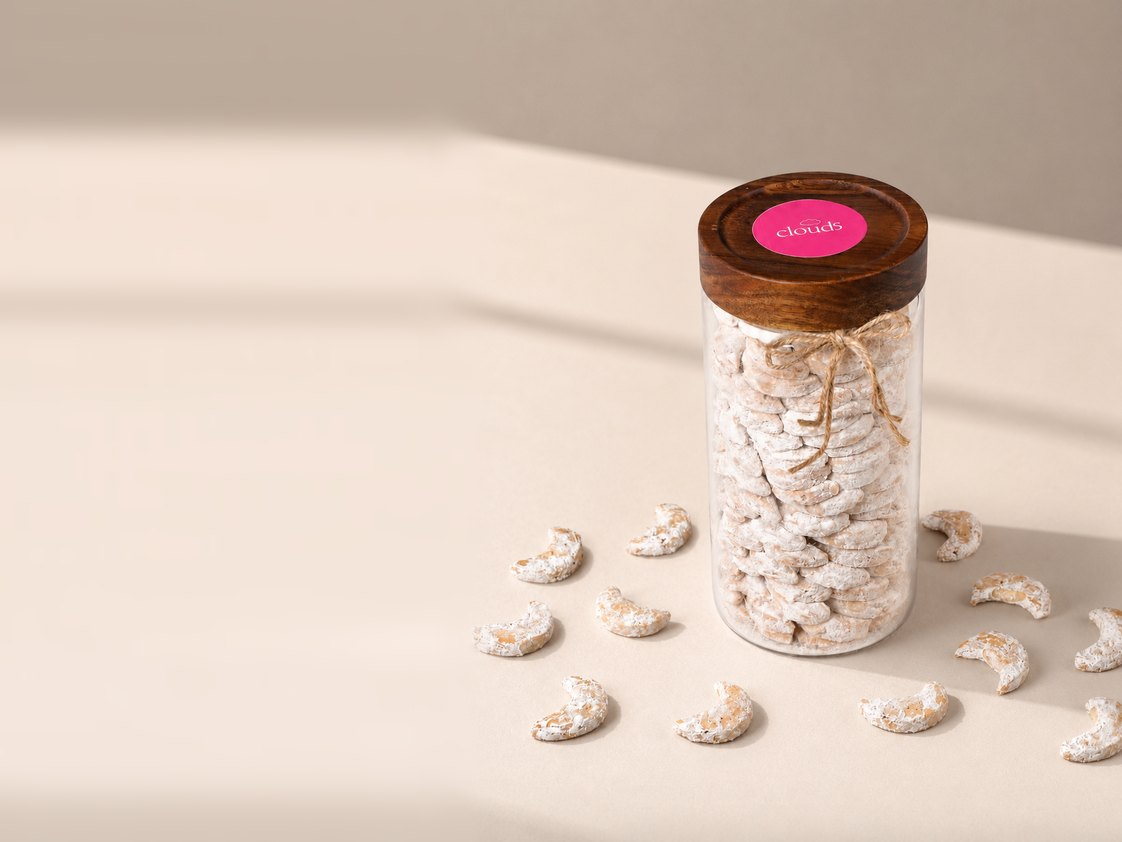
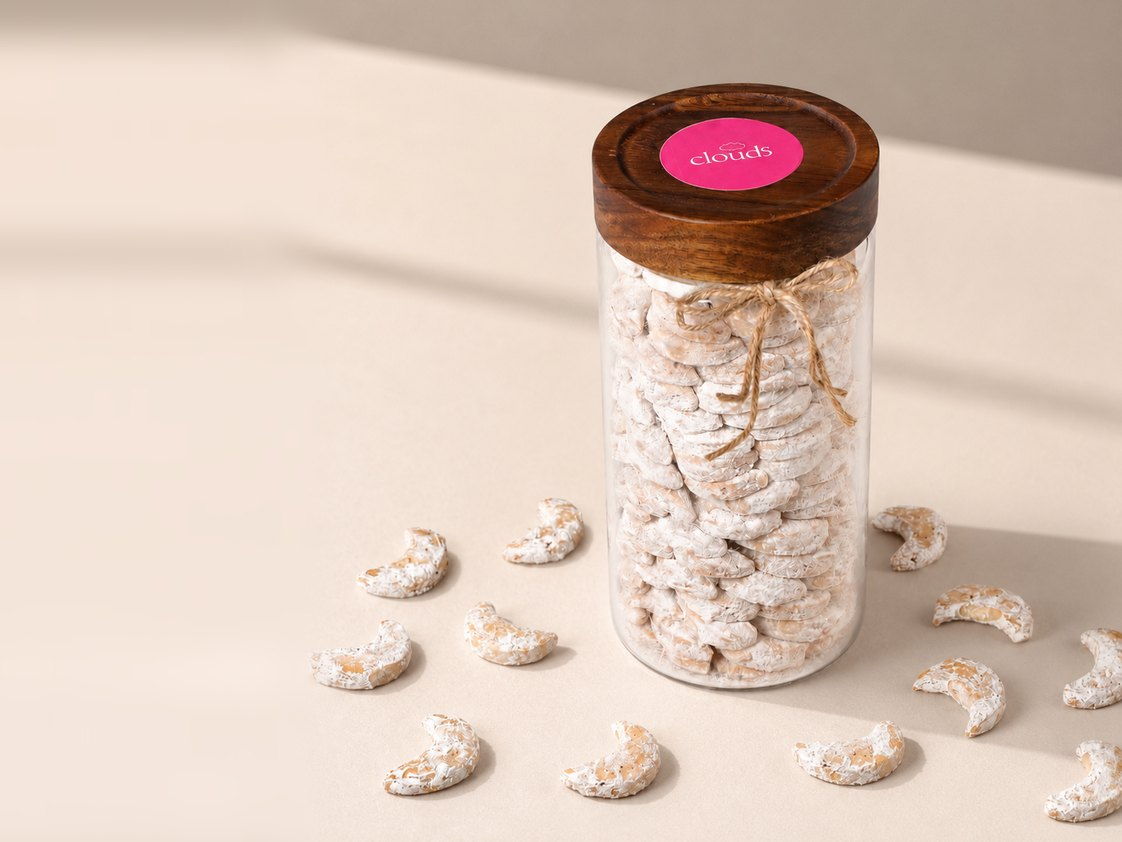
Home page: zoom the main photo in on the jar

diff --git a/index.html b/index.html
@@ -78,7 +78,7 @@
           </div>
         </div>
         <div class="hero__media">
-          <div class="ph ph--bold ph--hero has-media" data-media-slot="hero"><img src="assets/img/hero-almond-crescents.jpg" alt="A jar of Cloud5 almond crescents with cookies scattered around it" width="1122" height="842" loading="eager" fetchpriority="high" /></div>
+          <div class="ph ph--bold ph--hero has-media" data-media-slot="hero"><img src="assets/img/hero-almond-crescents.jpg?v=2" alt="A jar of Cloud5 almond crescents with cookies scattered around it" width="1122" height="842" loading="eager" fetchpriority="high" /></div>
         </div>
       </div>
     </section>
